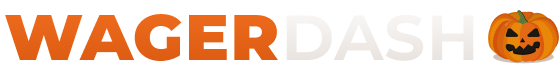
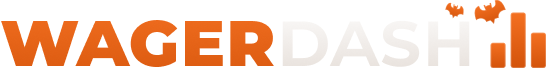
y

Changed region(s): [[0.0, 0.1944, 0.6193, 0.8611], [0.6503, 0.0, 1.0, 0.8889], [0.5264, 0.6944, 0.5574, 0.7222]]

diff --git a/src/components/DashboardClient.jsx b/src/components/DashboardClient.jsx
@@ -10,6 +10,27 @@ import { BarChart, Bar, XAxis, YAxis, CartesianGrid, Tooltip as RechartsTooltip,
 import { createAvatar } from '@dicebear/core';
 import { avataaarsNeutral } from '@dicebear/collection';
 import { ScrollArea } from "./ui/scroll-area";
+import {
+  TextureCardHeader,
+  TextureCardTitle,
+  TextureCardContent,
+  TextureSeparator,
+} from "./ui/texture-card";
+
+// Custom dark TextureCard component with #07080B color scheme
+const DarkTextureCard = ({ children, className = "" }) => (
+  <div className={`rounded-[24px] border border-white/60 dark:border-stone-950/60 bg-gradient-to-b from-[#07080B] to-[#0f1015] ${className}`}>
+    <div className="rounded-[23px] border dark:border-neutral-900/80 border-black/10 bg-gradient-to-b from-[#07080B] to-[#0f1015]">
+      <div className="rounded-[22px] border dark:border-neutral-950 border-white/50 bg-gradient-to-b from-[#07080B] to-[#0f1015]">
+        <div className="rounded-[21px] border dark:border-neutral-900/70 border-neutral-950/20 bg-gradient-to-b from-[#07080B] to-[#0f1015]">
+          <div className="w-full border border-white/50 dark:border-neutral-700/50 rounded-[20px] text-neutral-500 bg-[#07080B]">
+            {children}
+          </div>
+        </div>
+      </div>
+    </div>
+  </div>
+);
 
 export function DashboardClient({ user }) {
   const [startDate, setStartDate] = useState(() => {
@@ -89,14 +110,18 @@ export function DashboardClient({ user }) {
     };
 
     const hash = hashCode(userId);
-    const clothesColor = clothesColors[hash % clothesColors.length];
-    const backgroundColor = backgroundColors[hash % backgroundColors.length];
+
 
     const avatar = createAvatar(avataaarsNeutral, {
       seed: userId,
       size: 128,
     });
     return avatar.toDataUri();
+  };
+
+  // Helper function to format dollar amounts with max 2 decimals (round down)
+  const formatDollarAmount = (amount) => {
+    return Math.floor(amount * 100) / 100;
   };
 
   // Fun microcopy generator for user counts with correlated emojis
@@ -261,7 +286,9 @@ export function DashboardClient({ user }) {
       
       return (
         <div className="bg-white/100 backdrop-blur-sm border border-gray-200/50 rounded-lg shadow-lg p-3">
-          <p className="font-semibold text-gray-800">${data.wagered.toLocaleString()}</p>
+          <p className="font-semibold text-gray-800">
+            ${formatDollarAmount(data.wagered).toLocaleString(undefined, { minimumFractionDigits: 2, maximumFractionDigits: 2 })}
+          </p>
           <p className="text-sm text-gray-500">
             {daysAgo === 0 ? "Today" : daysAgo === 1 ? "1 day ago" : `${daysAgo} days ago`}
           </p>
@@ -523,55 +550,93 @@ export function DashboardClient({ user }) {
      
 
       {/* User List Section */}
-      <div className="bg-[#1D1C21] border border-white/[0.075] rounded-md p-5">
-        <h2 className="text-lg font-medium text-white mb-4">User Statistics</h2>
-        {isLoading ? (
-          <div className="space-y-3">
-            {Array.from({ length: 5 }).map((_, i) => (
-              <div key={i} className="flex items-center gap-3">
-                <Skeleton className="h-12 w-12 rounded-full bg-gray-600/30" />
-                <div className="flex-1">
-                  <Skeleton className="h-4 w-32 bg-gray-600/30 mb-2" />
-                  <Skeleton className="h-3 w-48 bg-gray-600/30" />
-                </div>
-              </div>
-            ))}
-          </div>
-        ) : usersList.length === 0 ? (
-          <p className="text-gray-400 text-sm">No user data available for the selected time period.</p>
-        ) : (
-          <ScrollArea className="h-[400px] pr-4">
+      <DarkTextureCard>
+        <TextureCardHeader className="flex flex-col justify-center gap-1 p-4">
+          <TextureCardTitle>User Statistics</TextureCardTitle>
+        </TextureCardHeader>
+        <TextureSeparator />
+        <TextureCardContent className="rounded-none bg-[#07080B]">
+          {isLoading ? (
             <div className="space-y-3">
-              {usersList.map((user, index) => (
-                <div
-                  key={user.uid}
-                  className="flex items-center gap-4 p-3 rounded-lg bg-gray-800/30 hover:bg-gray-800/50 transition-colors"
-                >
-                  <div className="relative">
-                    <img
-                      src={getAvatarUrl(user.uid)}
-                      alt={user.username}
-                      className="h-12 w-12 rounded-full"
-                    />
-                    {index < 3 && (
-                      <div className="absolute -top-1 -right-1 h-5 w-5 rounded-full bg-orange-500 flex items-center justify-center text-white text-xs font-bold">
-                        {index + 1}
-                      </div>
-                    )}
-                  </div>
-                  <div className="flex-1 min-w-0">
-                    <h3 className="text-white font-medium truncate">{user.username}</h3>
-                    <div className="flex gap-4 text-sm text-gray-400 mt-1">
-                      <span>Wagered: <span className="text-orange-400 font-medium">${user.wagered.toLocaleString()}</span></span>
-                      <span>Weighted Wagered: <span className="text-blue-400 font-medium">${user.weightedWagered.toLocaleString()}</span></span>
-                    </div>
+              {Array.from({ length: 15 }).map((_, i) => (
+                <div key={i} className="flex items-center gap-3">
+                  <Skeleton className="h-12 w-12 rounded-full bg-gray-600/30" />
+                  <div className="flex-1">
+                    <Skeleton className="h-4 w-32 bg-gray-600/30 mb-2" />
+                    <Skeleton className="h-3 w-48 bg-gray-600/30" />
                   </div>
                 </div>
               ))}
             </div>
-          </ScrollArea>
-        )}
-      </div>
+          ) : usersList.length === 0 ? (
+            <p className="text-gray-400 text-sm">No user data available for the selected time period.</p>
+          ) : (
+            <ScrollArea className="h-[400px] pr-4">
+              <div className="min-w-full">
+                {/* Table Header */}
+                <div className="grid grid-cols-[80px_80px_2fr_1fr_1fr_1fr] gap-6 pb-3 mb-3 border-b border-white/10 sticky top-0 bg-[#07080B] z-10 pl-2 pr-6">
+                  <div className="text-xs font-semibold text-gray-400 uppercase tracking-wider text-center">Rank</div>
+                  <div className="text-xs font-semibold text-gray-400 uppercase tracking-wider text-center">Avatar</div>
+                  <div className="text-xs font-semibold text-gray-400 uppercase tracking-wider">Username</div>
+                  <div className="text-xs font-semibold text-gray-400 uppercase tracking-wider text-right">Wagered</div>
+                  <div className="text-xs font-semibold text-gray-400 uppercase tracking-wider text-right">Weighted</div>
+                  <div className="text-xs font-semibold text-gray-400 uppercase tracking-wider text-right">Last Seen</div>
+                </div>
+
+                {/* Table Body */}
+                <div className="space-y-2">
+                  {usersList.map((user, index) => (
+                    <div
+                      key={user.uid}
+                      className="grid grid-cols-[80px_80px_2fr_1fr_1fr_1fr] gap-6 p-3 rounded-lg bg-[#0f1015]/50 hover:bg-[#14151a]/70 transition-colors items-center pl-2 pr-6 border border-white/5"
+                    >
+                      {/* Rank */}
+                      <div className="flex justify-center">
+                      
+                          <span className="text-gray-400 font-medium text-sm">#{index + 1}</span>
+                        
+                      </div>
+
+                      {/* Avatar */}
+                      <div className="flex justify-center">
+                        <img
+                          src={getAvatarUrl(user.uid)}
+                          alt={user.username}
+                          className="h-10 w-10 rounded-full ring-2 ring-white/10"
+                        />
+                      </div>
+
+                      {/* Username */}
+                      <div className="min-w-0">
+                        <h3 className="text-white font-medium truncate">{user.username}</h3>
+                      </div>
+
+                      {/* Wagered */}
+                      <div className="text-right">
+                        <span className="text-orange-400 font-medium">
+                          ${formatDollarAmount(user.wagered).toLocaleString(undefined, { minimumFractionDigits: 2, maximumFractionDigits: 2 })}
+                        </span>
+                      </div>
+
+                      {/* Weighted Wagered */}
+                      <div className="text-right">
+                        <span className="text-blue-400 font-medium">
+                          ${formatDollarAmount(user.weightedWagered).toLocaleString(undefined, { minimumFractionDigits: 2, maximumFractionDigits: 2 })}
+                        </span>
+                      </div>
+
+                      {/* Last Seen - Placeholder */}
+                      <div className="text-right">
+                        <span className="text-gray-400 text-sm">2 hours ago</span>
+                      </div>
+                    </div>
+                  ))}
+                </div>
+              </div>
+            </ScrollArea>
+          )}
+        </TextureCardContent>
+      </DarkTextureCard>
 
        {/* Date inputs - keeping for manual override */}
       <div className="flex space-x-2 items-center">

diff --git a/src/components/app-sidebar.jsx b/src/components/app-sidebar.jsx
@@ -268,9 +268,9 @@ export function AppSidebar({ user, websites = [], ...props }) {
                 className="cursor-pointer  !bg-transparent data-[state=open]:bg-sidebar-accent data-[state=open]:text-sidebar-accent-foreground"
               >
                   <img
-                    src={"/logo-text.png"}
+                    src={"/halloween.png"}
 
-                    className="h-6 "
+                    className="h8 "
                   />
               
               </SidebarMenuButton>
